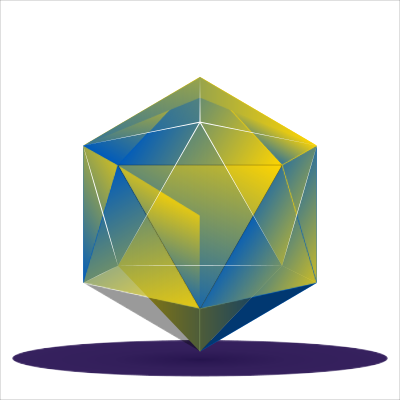
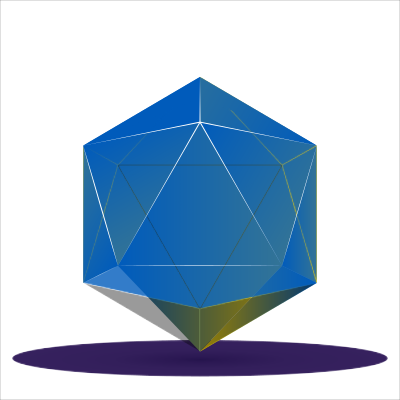
better

Changed region(s): [[0.21, 0.18, 0.81, 0.87]]

diff --git a/gems/openai_api.py b/gems/openai_api.py
@@ -57,95 +57,105 @@ def getTweets(username):
 def getTopic(username):
     filename = "gems/static/images/colors_scheme.png"
     img = Image.open(filename)
-    if username == "_none_":
-        results = ["cbd5e1", "94a3b8", "64748b", "e2e8f0", "cbd5e1", "94a3b8", "64748b", "e2e8f0", "94a3b8"]
-    else:
+    if username != "_none_":
         results = ["fee2e2", "ffedd5", "ecfccb", "dcfce7", "e0f2fe", "ede9fe", "fae8ff", "fce7f3", "c7d2fe"]
-
-
-
-    random.shuffle(results)
-    try:
-        tweets = getTweets(username)
-    except:
-        tweets = None
-
-    tweet_count = 0 
-    ukraine = False 
-    if tweets:
-        for tweet in tweets:
-            if "#StandWithUkraine" in tweet:
-                ukraine = True 
-            if "RT @" not in tweet:
-                if tweet_count < 10:
-                    subject = getSubjectivity(tweet)
-                    polar = getPolarity(tweet)
-                    if polar != 100 and subject != 0:
-                        colors = img.getpixel((polar, subject))
-                        colors = '{:02x}{:02x}{:02x}'.format(*colors)
-                        tweet_count += 1
-                        results.insert(0, colors)
-
-    if ukraine:
-        results = ["005BBB", "FFD500", "005BBB", "FFD500", "005BBB", "FFD500", "005BBB", "FFD500", "005BBB", "FFD500"]
         random.shuffle(results)
-        
+        try:
+            tweets = getTweets(username)
+        except:
+            tweets = None
+
+        tweet_count = 0 
+        ukraine = False 
+        blackat = False
+        if tweets:
+            for tweet in tweets:
+                if "@blackatxyz" in tweet.lower():
+                    blackat = True 
+                if "#standwithukraine" in tweet.lower():
+                    ukraine = True 
+                if "RT @" not in tweet:
+                    if tweet_count < 10:
+                        subject = getSubjectivity(tweet)
+                        polar = getPolarity(tweet)
+                        if polar != 100 and subject != 0:
+                            colors = img.getpixel((polar, subject))
+                            colors = '{:02x}{:02x}{:02x}'.format(*colors)
+                            tweet_count += 1
+                            results.insert(0, colors)
+
+        if blackat:
+            results = ["4d4d4d", "3c3c3c", "000000", "4d4d4d", "111111", "1e1e1e", "111111", "000000", "3c3c3c", "111111"]
+            random.shuffle(results)
+
+        if ukraine:
+            results = ["005BBB", "FFD500", "005BBB", "FFD500", "005BBB", "FFD500", "005BBB", "FFD500", "005BBB", "FFD500"]
+            random.shuffle(results)
+
+    else:
+        results = ["cbd5e1", "94a3b8", "64748b", "e2e8f0", "cbd5e1", "94a3b8", "64748b", "e2e8f0", "94a3b8"]
+
+
     return(results[:9])
 
 
 def getFullTopic(username):
     filename = "gems/static/images/colors_scheme.png"
     img = Image.open(filename)
-    if username == "_none_":
-        results = ["cbd5e1", "94a3b8", "64748b", "e2e8f0", "cbd5e1", "94a3b8", "64748b", "e2e8f0", "94a3b8"]
-    else:
+    subject_mode = [0,0]
+    polar_mode = [0,0]
+    tweet_numbers = []
+    if username != "_none_":
         results = ["fee2e2", "ffedd5", "ecfccb", "dcfce7", "e0f2fe", "ede9fe", "fae8ff", "fce7f3", "c7d2fe"]
 
-    random.shuffle(results)
-    
-    try:
-        tweets = getTweets(username)
-    except:
-        tweets = None
-
-    tweet_numbers = []
-    tweet_count = 0 
-    subject_total = []
-    polar_total = []
-    ukraine = False
-    blackat = False
-    if tweets:
-        for tweet in tweets:
-            if "@Blackatxyz" in tweet.lower():
-                blackat = True 
-            if "#standwithukraine" in tweet.lower():
-                ukraine = True 
-            
-            if "RT @" not in tweet:
-                if tweet_count < 10:
-                    
-                    subject = getSubjectivity(tweet)
-                    
-                    polar = getPolarity(tweet)
-                    
-                    if polar != 100 and subject != 0:
-                        subject_total.append(round(subject/10)*10)
-                        polar_total.append(round(polar/10)*10)
-                        colors = img.getpixel((polar, subject))
-                        colors = '{:02x}{:02x}{:02x}'.format(*colors)
-                        tweet_count += 1
-                        results.insert(0, colors)
-                        numer_totals = colors, subject, polar
-                        tweet_numbers.append(numer_totals)
-    
-    subject_mode = my_mode(subject_total)
-    polar_mode = my_mode(polar_total)
-
-    if blackat:
-        results = ["4d4d4d", "3c3c3c", "000000", "4d4d4d", "111111", "1e1e1e", "111111", "000000", "3c3c3c", "111111"]
         random.shuffle(results)
+        
+        try:
+            tweets = getTweets(username)
+        except:
+            tweets = None
 
-    if ukraine:
-        results = ["005BBB", "FFD500", "005BBB", "FFD500", "005BBB", "FFD500", "005BBB", "FFD500", "005BBB", "FFD500"]
-        random.shuffle(results)
+        tweet_count = 0 
+        subject_total = []
+        polar_total = []
+        ukraine = False
+        blackat = False
+        if tweets:
+            for tweet in tweets:
+                if "@Blackatxyz" in tweet.lower():
+                    blackat = True 
+                if "#standwithukraine" in tweet.lower():
+                    ukraine = True 
+                
+                if "RT @" not in tweet:
+                    if tweet_count < 10:
+                        
+                        subject = getSubjectivity(tweet)
+                        
+                        polar = getPolarity(tweet)
+                        
+                        if polar != 100 and subject != 0:
+                            subject_total.append(round(subject/10)*10)
+                            polar_total.append(round(polar/10)*10)
+                            colors = img.getpixel((polar, subject))
+                            colors = '{:02x}{:02x}{:02x}'.format(*colors)
+                            tweet_count += 1
+                            results.insert(0, colors)
+                            numer_totals = colors, subject, polar
+                            tweet_numbers.append(numer_totals)
+        
+        subject_mode = my_mode(subject_total)
+        polar_mode = my_mode(polar_total)
+
+        if blackat:
+            results = ["4d4d4d", "3c3c3c", "000000", "4d4d4d", "111111", "1e1e1e", "111111", "000000", "3c3c3c", "111111"]
+            random.shuffle(results)
+
+        if ukraine:
+            results = ["005BBB", "FFD500", "005BBB", "FFD500", "005BBB", "FFD500", "005BBB", "FFD500", "005BBB", "FFD500"]
+            random.shuffle(results)
+
+    else:
+        results = ["cbd5e1", "94a3b8", "64748b", "e2e8f0", "cbd5e1", "94a3b8", "64748b", "e2e8f0", "94a3b8"]
+
     return(results[:9], tweet_numbers, subject_mode[0], polar_mode[0])
